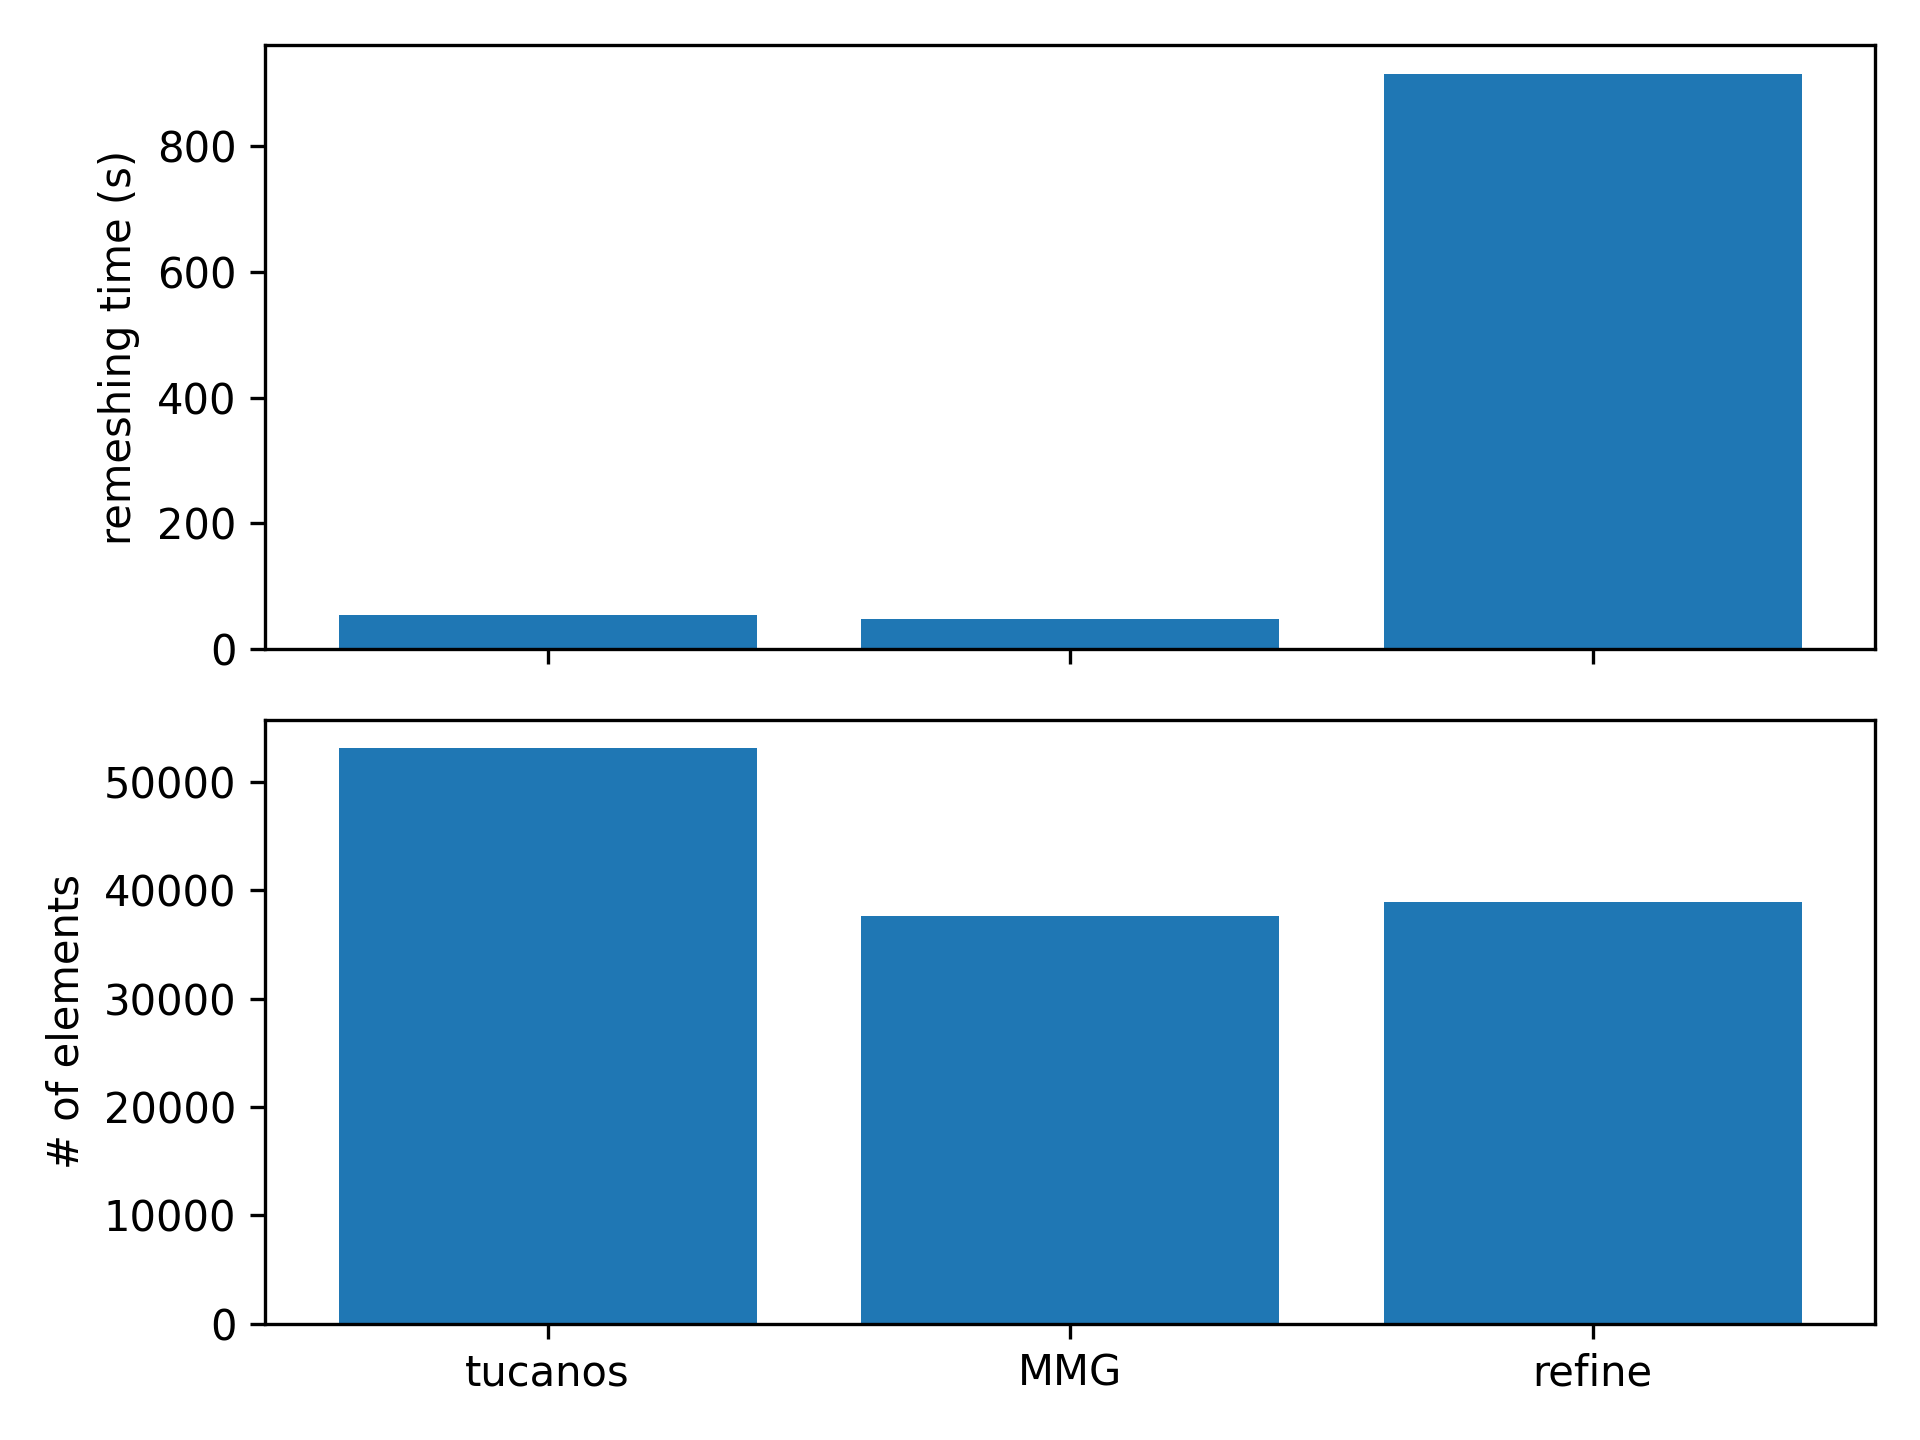
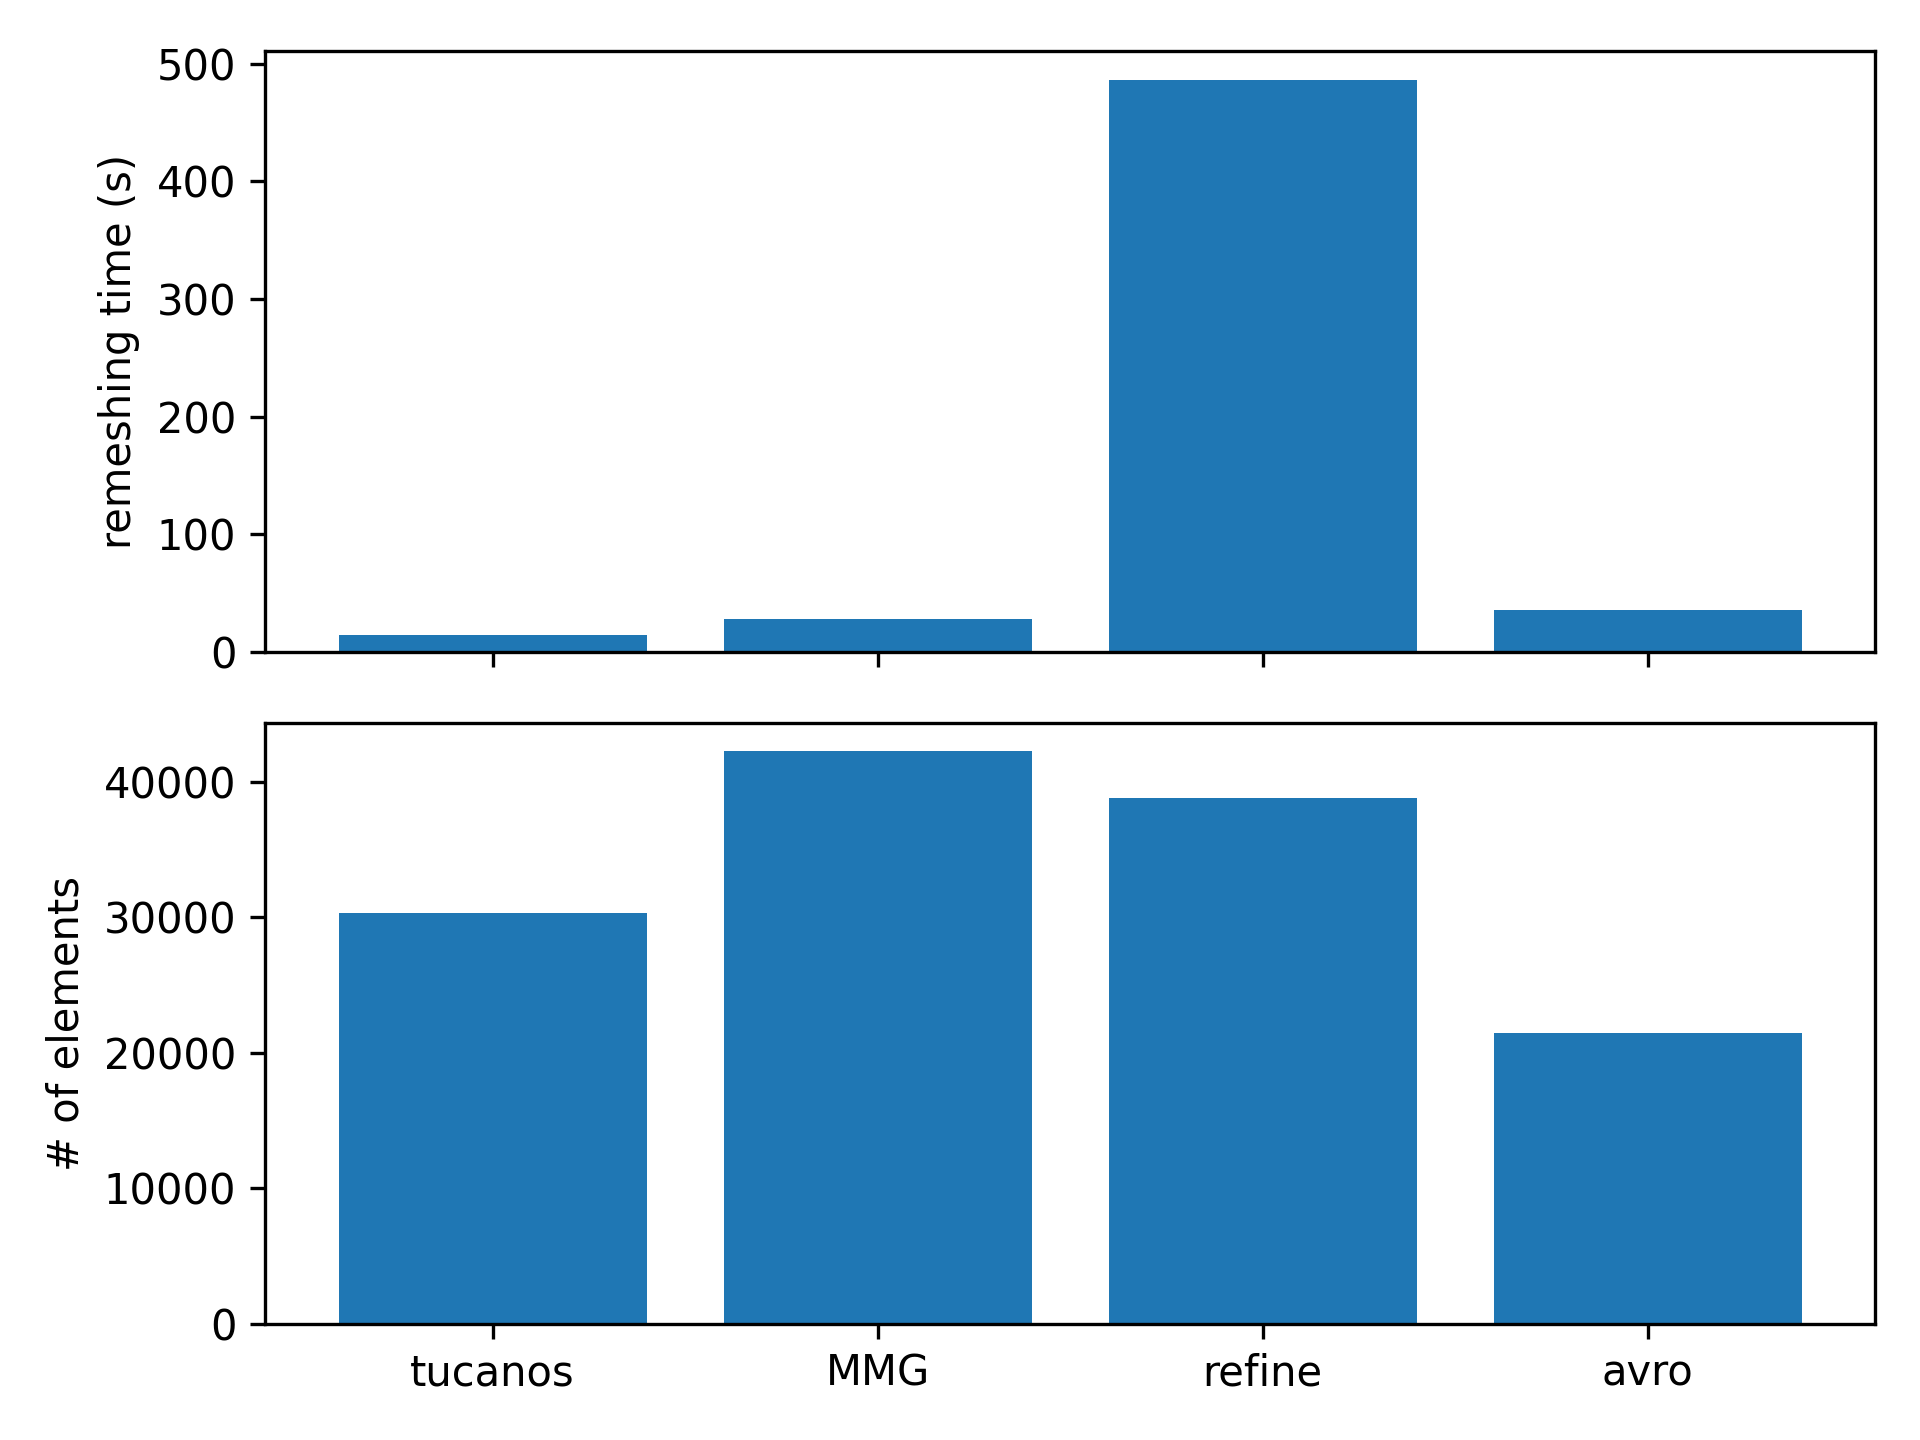
update benchmarks (avro added)

diff --git a/pytucanos/remesh.py b/pytucanos/remesh.py
@@ -9,6 +9,9 @@ from .geometry import LinearGeometry2d, LinearGeometry3d
 
 
 def plot_stats(remesher):
+    """
+    Plot the remesher stats
+    """
 
     fig, axs = plt.subplots(3, 1, sharex=True, tight_layout=True)
 
@@ -71,14 +74,14 @@ def __write_tmp_meshb(msh, h):
         raise NotImplementedError()
 
 
-def __read_tmp_meshb(dim):
+def __read_tmp_meshb(dim, fname="tmp.meshb"):
 
     if dim == 2:
-        msh = Mesh22.from_meshb("tmp.meshb")
+        msh = Mesh22.from_meshb(fname)
     elif dim == 3:
-        msh = Mesh33.from_meshb("tmp.meshb")
+        msh = Mesh33.from_meshb(fname)
 
-    os.remove("tmp.meshb")
+    os.remove(fname)
 
     return msh
 
@@ -94,6 +97,9 @@ def __iso_to_aniso_3d(h):
 
 
 def remesh(msh, h, bdy=None, step=None, **remesh_params):
+    """
+    Remesh using tucanos
+    """
 
     if isinstance(msh, Mesh33):
         LinearGeometry = LinearGeometry3d
@@ -122,55 +128,52 @@ def remesh(msh, h, bdy=None, step=None, **remesh_params):
 
 
 def remesh_mmg(msh, h, hgrad=10.0, hausd=10.0):
-
+    """
+    Remesh using MMG.
+    The path to the mmg executable is given by environment variable MMG2D_EXE/MMG3D_EXE
+    """
     __write_tmp_meshb(msh, h)
 
     if isinstance(msh, Mesh22):
         dim = 2
-        subprocess.check_output(
-            [
-                "mmg2d_O3",
-                "-in",
-                "tmp.meshb",
-                "-sol",
-                "tmp.solb",
-                "-out",
-                "tmp.meshb",
-                "-hgrad",
-                repr(hgrad),
-                "-hausd",
-                repr(hausd),
-            ],
-            stderr=subprocess.STDOUT,
-        )
+        exe = os.getenv("MMG2D_EXE", "mmg2d_O3")
     else:
         dim = 3
-        subprocess.check_output(
-            [
-                "mmg3d_O3",
-                "-in",
-                "tmp.meshb",
-                "-sol",
-                "tmp.solb",
-                "-out",
-                "tmp.meshb",
-                "-hgrad",
-                repr(hgrad),
-                "-hausd",
-                repr(hausd),
-            ],
-            stderr=subprocess.STDOUT,
-        )
+        exe = os.getenv("MMG3D_EXE", "mmg3d_O3")
+
+    subprocess.check_output(
+        [
+            exe,
+            "-in",
+            "tmp.meshb",
+            "-sol",
+            "tmp.solb",
+            "-out",
+            "tmp.meshb",
+            "-hgrad",
+            repr(hgrad),
+            "-hausd",
+            repr(hausd),
+        ],
+        stderr=subprocess.STDOUT,
+    )
+
+    os.remove("tmp.solb")
 
     return __read_tmp_meshb(dim)
 
 
 def remesh_omega_h(msh, h):
+    """
+    Remesh using Omega_h.
+    The path to the osh_adapt executable is given by environment variable OSH_EXE
+    """
 
     h = __iso_to_aniso_3d(h)
 
     __write_tmp_meshb(msh, h)
 
+    exe = os.getenv("OSH_EXE", "osh_adapt")
     subprocess.check_output(
         [
             "osh_adapt",
@@ -191,23 +194,65 @@ def remesh_omega_h(msh, h):
     return __read_tmp_meshb(3)
 
 
-def remesh_refine(msh, h):
+def remesh_refine(msh, h, geom=None):
+    """
+    Remesh using refine.
+    The path to the ref executable is given by environment variable REF_EXE
+    """
 
     h = __iso_to_aniso_3d(h)
 
     __write_tmp_meshb(msh, h)
 
+    exe = os.getenv("REF_EXE", "ref")
+
+    args = [
+        exe,
+        "adapt",
+        "tmp.meshb",
+        "--metric",
+        "tmp.solb",
+        "-x",
+        "tmp.meshb",
+    ]
+    if geom is not None:
+        args += ["-g", geom]
+
+    subprocess.check_output(
+        args,
+        stderr=subprocess.STDOUT,
+    )
+
+    os.remove("tmp.solb")
+
+    return __read_tmp_meshb(3)
+
+
+def remesh_avro(msh, h, geom, limit=False):
+    """
+    Remesh using avro.
+    The path to the avro executable is given by environment variable AVRO_EXE
+    """
+
+    h = __iso_to_aniso_3d(h)
+
+    __write_tmp_meshb(msh, h)
+
+    exe = os.getenv("AVRO_EXE", "avro")
     subprocess.check_output(
         [
-            "ref",
-            "adapt",
+            exe,
+            "-adapt",
             "tmp.meshb",
-            "--metric",
+            geom,
             "tmp.solb",
-            "-x",
-            "tmp.meshb",
+            "tmp.mesh",
+            "limit=%s" % ("true" if limit else "false"),
         ],
         stderr=subprocess.STDOUT,
     )
 
-    return __read_tmp_meshb(3)
+    os.remove("tmp.solb")
+    os.remove("tmp_0.sol")
+
+    return __read_tmp_meshb(3, "tmp_0.mesh")

diff --git a/benchmarks/cube_cylinder/run_test.py b/benchmarks/cube_cylinder/run_test.py
@@ -7,8 +7,9 @@ from pytucanos.mesh import Mesh33, Mesh32
 from pytucanos.remesh import (
     remesh,
     remesh_mmg,
-    remesh_omega_h,
+    # remesh_omega_h,
     remesh_refine,
+    remesh_avro,
 )
 from pytucanos.quality import qualities_and_lengths
 
@@ -54,22 +55,18 @@ def get_metric(msh):
     return m
 
 
-def run_loop(remesh, name, with_geom):
+def run_loop(remesh, name):
 
     pth = os.path.dirname(__file__)
-    msh = Mesh33.from_meshb(os.path.join(pth, "cube-cylinder.mesh"))
-    if with_geom:
-        bdy = Mesh32.from_meshb(os.path.join(pth, "cube-cylinder-boundary.mesh"))
+    if name == "tucanos":
+        msh = Mesh33.from_meshb(os.path.join(pth, "cube-cylinder.mesh"))
     else:
-        print(f"WARNING: geometry not used for {name}")
+        msh = Mesh33.from_meshb(os.path.join(pth, "cube-cylinder.meshb"))
 
     t0 = time()
     for _ in range(5):
         h = get_metric(msh)
-        if with_geom:
-            msh = remesh(msh, h, bdy)
-        else:
-            msh = remesh(msh, h)
+        msh = remesh(msh, h)
     t1 = time()
 
     return msh, t1 - t0
@@ -84,16 +81,11 @@ def run(cases):
     fig_q, axs_q = plt.subplots(2, 1, tight_layout=True)
     fig_p, axs_p = plt.subplots(2, 1, tight_layout=True, sharex=True)
 
-    names = ["tucanos", "MMG", "Omega_h", "refine"]
-    fns = [remesh, remesh_mmg, remesh_omega_h, remesh_refine]
-
     perf = []
-    for name, (with_geom, fn) in cases.items():
-        if name == "Omega_h":
-            continue
+    for name, fn in cases.items():
         print("Running %s" % name)
         try:
-            msh, t = run_loop(fn, name, with_geom)
+            msh, t = run_loop(fn, name)
             perf.append((name, t, msh.n_elems()))
             print("%s: %d elems, %f s" % (name, msh.n_elems(), t))
 
@@ -178,18 +170,14 @@ if __name__ == "__main__":
         ),
     }
 
+    pth = os.path.dirname(__file__)
+    bdy = Mesh32.from_meshb(os.path.join(pth, "cube-cylinder-boundary.mesh"))
+
     cases_benchmark = {
-        "tucanos": (
-            True,
-            lambda mesh, h, bdy: remesh(
-                mesh,
-                h,
-                bdy,
-                step=4.0,
-            ),
-        ),
-        "MMG": (False, remesh_mmg),
-        "refine": (False, remesh_refine),
+        "tucanos": lambda mesh, h: remesh(mesh, h, bdy),
+        "MMG": remesh_mmg,
+        "refine": lambda mesh, h: remesh_refine(mesh, h, "cube-cylinder.egads"),
+        "avro": lambda mesh, h: remesh_avro(mesh, h, "cube-cylinder.egads", limit=True),
     }
 
     run(cases_benchmark)

diff --git a/benchmarks/cube_linear/run_test.py b/benchmarks/cube_linear/run_test.py
@@ -7,8 +7,9 @@ from pytucanos.mesh import Mesh33, get_cube
 from pytucanos.remesh import (
     remesh,
     remesh_mmg,
-    remesh_omega_h,
+    # remesh_omega_h,
     remesh_refine,
+    remesh_avro,
 )
 from pytucanos.quality import qualities_and_lengths
 
@@ -132,6 +133,8 @@ if __name__ == "__main__":
         ),
         "MMG": remesh_mmg,
         "refine": remesh_refine,
+        "avro": lambda mesh, h: remesh_avro(mesh, h, "box"),
+        # "Omega_h": remesh_omega_h,
     }
 
     run(cases_benchmark)

diff --git a/benchmarks/cube_iso/run_test.py b/benchmarks/cube_iso/run_test.py
@@ -9,6 +9,7 @@ from pytucanos.remesh import (
     remesh_mmg,
     remesh_omega_h,
     remesh_refine,
+    remesh_avro,
 )
 from pytucanos.quality import qualities_and_lengths
 
@@ -124,6 +125,8 @@ if __name__ == "__main__":
         ),
         "MMG": remesh_mmg,
         "refine": remesh_refine,
+        "avro": lambda mesh, h: remesh_avro(mesh, h, "box"),
+        "Omega_h": remesh_omega_h,
     }
 
     run(cases_benchmark)

diff --git a/benchmarks/cube_cylinder/README.md b/benchmarks/cube_cylinder/README.md
@@ -4,6 +4,8 @@
 
 This is the [polar-1](https://github.com/UGAWG/adapt-benchmarks/tree/master/cube-cylinder) benchmark from the Unstructured Grid Adaptation Working Group.
 
+NB: the metric is not limited at each remeshing step
+
 ![mesh](mesh.png)
 
 ## Initial mesh
@@ -11,13 +13,15 @@ This is the [polar-1](https://github.com/UGAWG/adapt-benchmarks/tree/master/cube
 Gmsh `.geo` files are provided to generate the initial mesh (identical to the UGAWG benchmark) and a stl-like geometry. The input mesh can be generated as
 ```
 wget https://raw.githubusercontent.com/UGAWG/adapt-benchmarks/master/cube-cylinder/cube-cylinder.step
+wget https://raw.githubusercontent.com/UGAWG/adapt-benchmarks/master/cube-cylinder/cube-cylinder.egads
+wget https://raw.githubusercontent.com/UGAWG/adapt-benchmarks/master/cube-cylinder/cube-cylinder.meshb
 gmsh cube-cylinder.geo -3 -o cube-cylinder.mesh
 gmsh cube-cylinder-boundary.geo -2 -o cube-cylinder-boundary.mesh
 ```
 
-## Results after 4 iterations
+## Results after 5 iterations
 
-NB: the egads file is not yet used for refine and Omega_h
+(NB: metric limiting applied to avro only)
 
 ![quality](quality.png)
 ![perfo](perfo.png)

diff --git a/benchmarks/cube_linear/README.md b/benchmarks/cube_linear/README.md
@@ -2,7 +2,7 @@
 
 ## Configuration
 
-This is the [linear](https://github.com/UGAWG/adapt-benchmarks/tree/master/cube) benchmark from the Unstructured Grid Adaptation Working Group.
+This is similar to the [linear](https://github.com/UGAWG/adapt-benchmarks/tree/master/cube) benchmark from the Unstructured Grid Adaptation Working Group.
 
 ![mesh](mesh.png)
 
@@ -10,13 +10,6 @@ This is the [linear](https://github.com/UGAWG/adapt-benchmarks/tree/master/cube)
 
 The initial mesh only contains 5 tetrahedra. 5 iterations are performed to reach the target metric.
 
-As the quality of the initial mesh is quite high, one should allow a decrease of the mesh quality during split and collapse loops, e.g. by setting
-```python
-remesher.remesh(
-    split_min_q_rel=0.5,
-    collapse_min_q_rel=0.5,
-)
-```
 
 ## Results after 5 iterations
 

diff --git a/benchmarks/square_iso/README.md b/benchmarks/square_iso/README.md
@@ -16,14 +16,6 @@ with $h_{min} = 0.01$ and $h_{max} = 0.3$
 
 The initial mesh only contains two triangles, so 5 iterations are required to reach the target cell sizes.
 
-As the quality of the initial mesh is quite high, one should allow a decrease of the mesh quality during split and collapse loops, e.g. by setting
-```python
-remesher.remesh(
-    split_min_q_rel=0.5,
-    collapse_min_q_rel=0.5,
-)
-```
-
 ## Results after 5 iterations
 
 ![quality](quality.png)

diff --git a/benchmarks/square_linear/README.md b/benchmarks/square_linear/README.md
@@ -14,13 +14,6 @@ The target anisotropic cell size are
 
 The initial mesh only contains two triangles. 4 iterations are performed to avoid differences with the metric interpolation.
 
-As the quality of the initial mesh is quite high, one should allow a decrease of the mesh quality during split and collapse loops, e.g. by setting
-```python
-remesher.remesh(
-    split_min_q_rel=0.5,
-    collapse_min_q_rel=0.5,
-)
-```
 
 ## Results after 5 iterations
 
